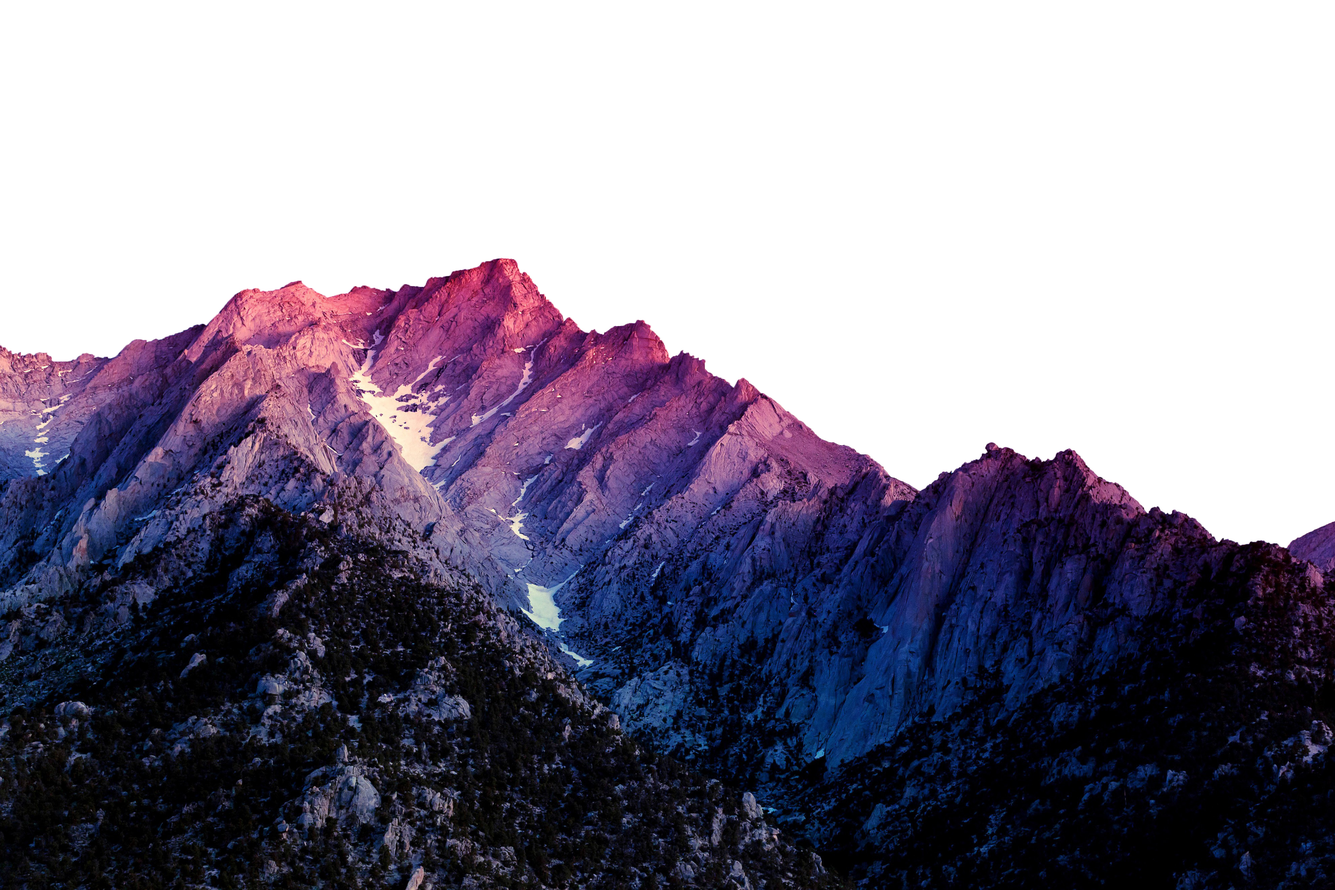
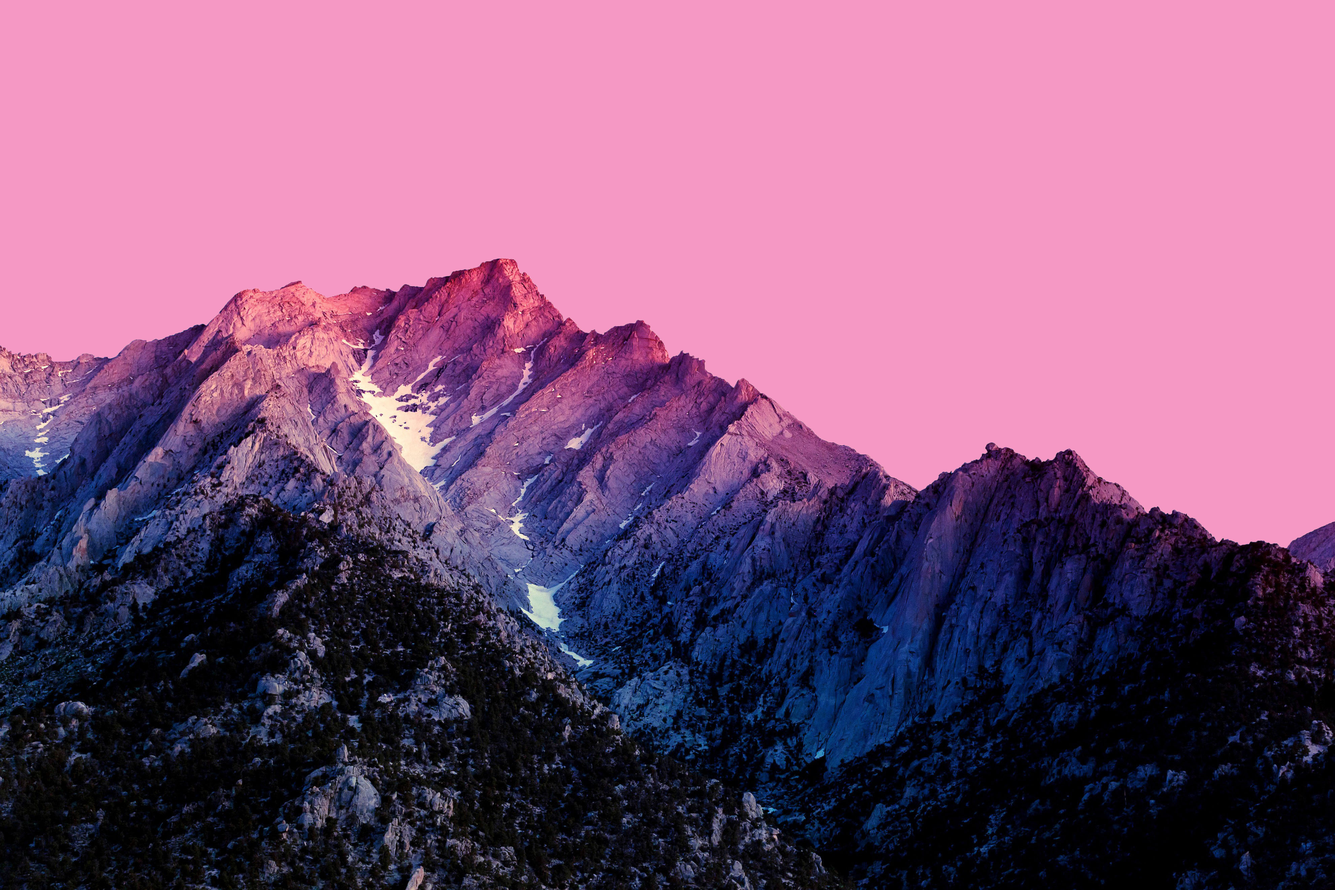
changed bg to less resourceful picture on mobile

diff --git a/style.css b/style.css
@@ -186,7 +186,7 @@ h1 {
 	}
 
 	.bg_wrapper {
-		background: url("images/mountain_foreground.png") no-repeat center bottom;
+		background: url("images/mountain_foreground.jpg") no-repeat center bottom;
 		background-size: cover;
 	}
 }
